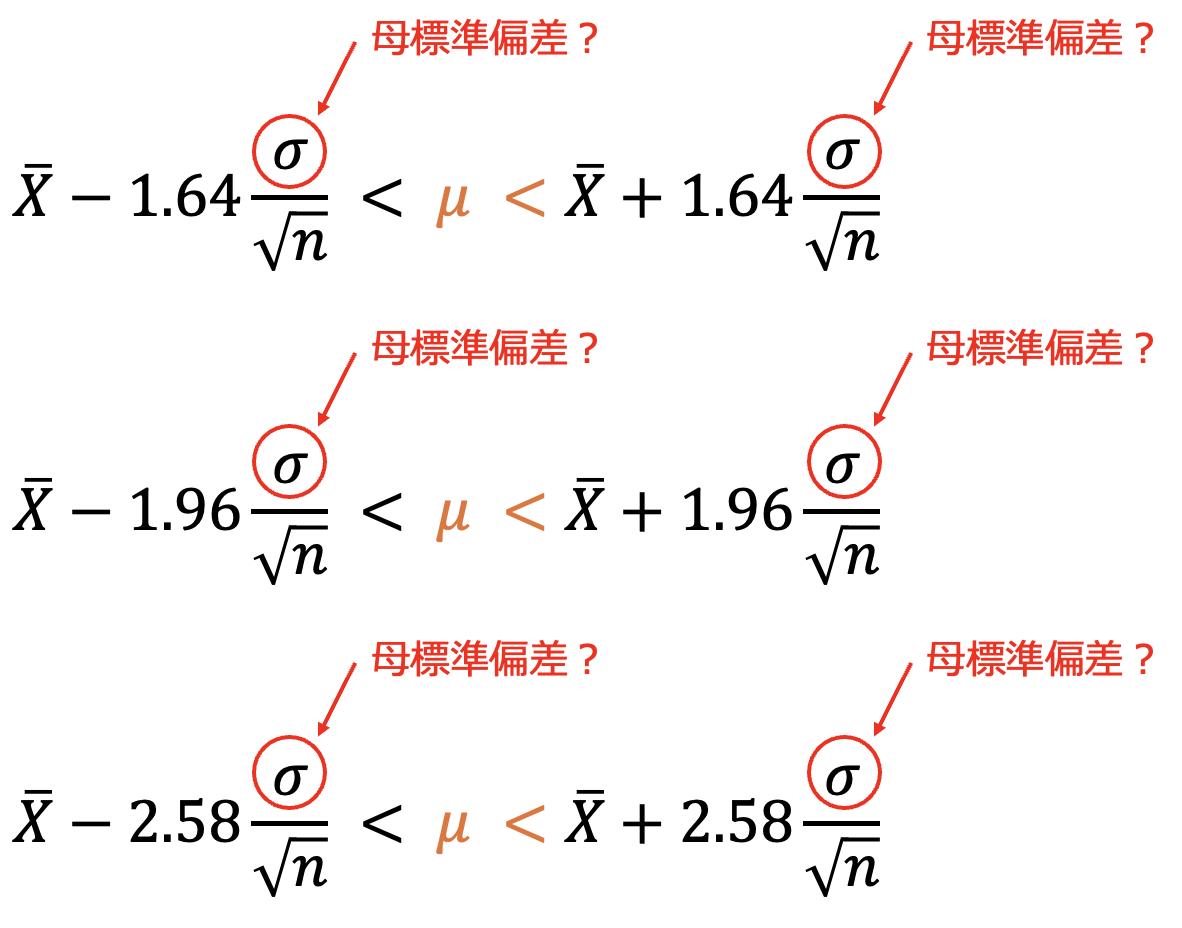
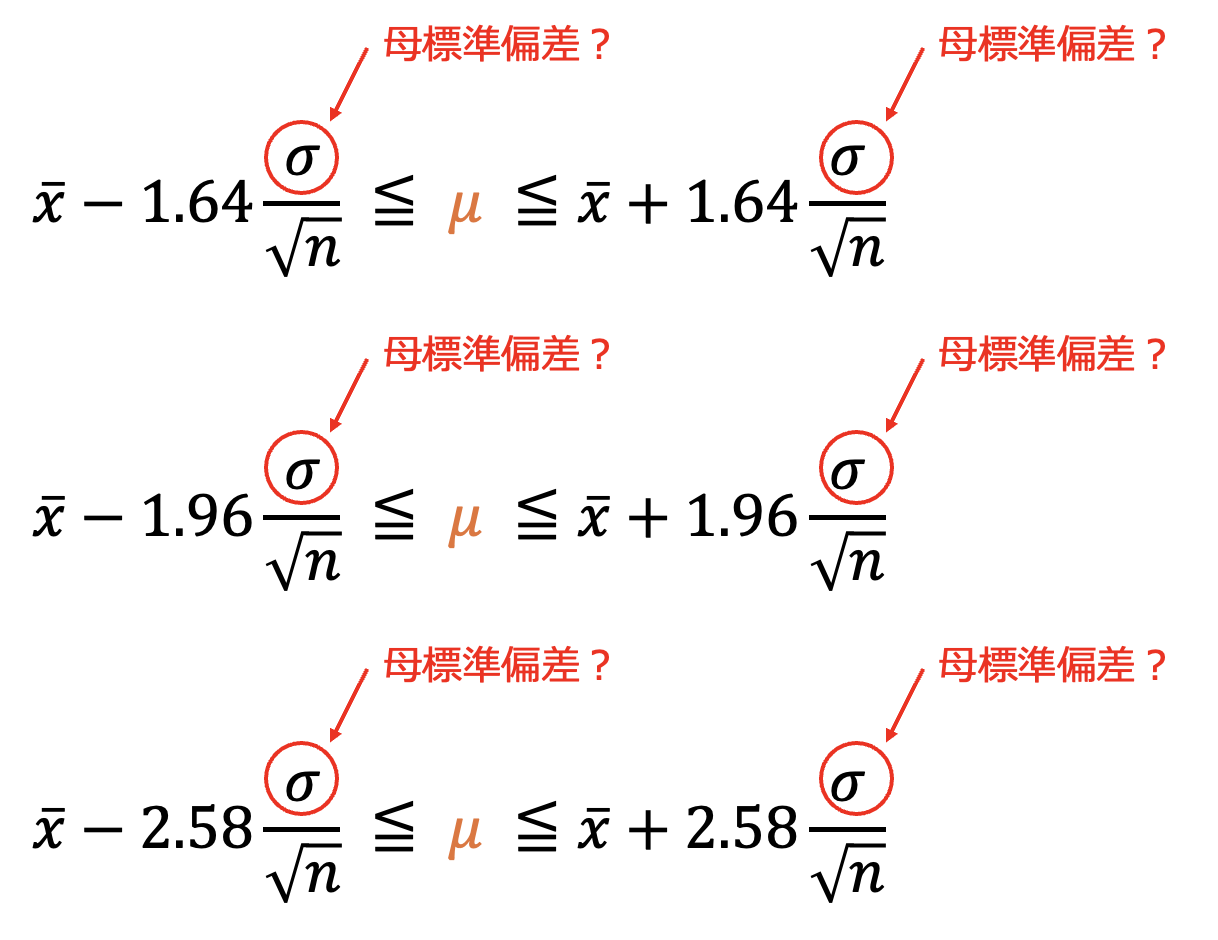
Built site for gh-pages

diff --git a/lecB04.html b/lecB04.html
@@ -383,8 +383,9 @@ window.Quarto = {
   <li><a href="#様々な信頼区間" id="toc-様々な信頼区間" class="nav-link" data-scroll-target="#様々な信頼区間"><span class="header-section-number">17.5</span> 様々な信頼区間</a></li>
   <li><a href="#疑問問題点" id="toc-疑問問題点" class="nav-link" data-scroll-target="#疑問問題点"><span class="header-section-number">17.6</span> 疑問・問題点</a></li>
   <li><a href="#母分散が未知の場合" id="toc-母分散が未知の場合" class="nav-link" data-scroll-target="#母分散が未知の場合"><span class="header-section-number">17.7</span> 母分散が未知の場合</a></li>
-  <li><a href="#エクセルの関数" id="toc-エクセルの関数" class="nav-link" data-scroll-target="#エクセルの関数"><span class="header-section-number">17.8</span> エクセルの関数</a></li>
-  <li><a href="#データ分析ツール" id="toc-データ分析ツール" class="nav-link" data-scroll-target="#データ分析ツール"><span class="header-section-number">17.9</span> データ分析ツール</a></li>
+  <li><a href="#計算例" id="toc-計算例" class="nav-link" data-scroll-target="#計算例"><span class="header-section-number">17.8</span> 計算例</a></li>
+  <li><a href="#エクセルの関数" id="toc-エクセルの関数" class="nav-link" data-scroll-target="#エクセルの関数"><span class="header-section-number">17.9</span> エクセルの関数</a></li>
+  <li><a href="#データ分析ツール" id="toc-データ分析ツール" class="nav-link" data-scroll-target="#データ分析ツール"><span class="header-section-number">17.10</span> データ分析ツール</a></li>
   </ul>
 </nav>
     </div>
@@ -459,18 +460,30 @@ window.Quarto = {
 <section id="信頼区間" class="level2" data-number="17.3">
 <h2 data-number="17.3" class="anchored" data-anchor-id="信頼区間"><span class="header-section-number">17.3</span> 信頼区間</h2>
 <p>「真の値がどれくらいの範囲に含まれるか」を確率的に示すのが<strong>信頼区間</strong>です。</p>
-<p><strong>95%信頼区間</strong></p>
-<p>母平均 <span class="math inline">\(\mu\)</span> を標本平均から推定する際、95%の確率で母平均 <span class="math inline">\(\mu\)</span> を含むような範囲のことをいいます。</p>
+<div id="fig-B04-confidence" class="quarto-float quarto-figure quarto-figure-center anchored" width="100%">
+<figure class="quarto-float quarto-float-fig figure">
+<div aria-describedby="fig-B04-confidence-caption-0ceaefa1-69ba-4598-a22c-09a6ac19f8ca">
+<img src="images/B04/B04-confidence.png" id="fig-B04-confidence" class="img-fluid figure-img" style="width:100.0%">
+</div>
+<figcaption class="quarto-float-caption-bottom quarto-float-caption quarto-float-fig quarto-uncaptioned" id="fig-B04-confidence-caption-0ceaefa1-69ba-4598-a22c-09a6ac19f8ca">
+図&nbsp;17.3
+</figcaption>
+</figure>
+</div>
 <div style="margin-top: 2.0em;">
 
 </div>
-<div id="fig-B04-3" class="quarto-float quarto-figure quarto-figure-center anchored" width="60%">
+<p><strong>95%信頼区間</strong></p>
+<p>母平均 <span class="math inline">\(\mu\)</span> を標本平均から推定する際、95%の確率で母平均 <span class="math inline">\(\mu\)</span> を含むような範囲のことをいいます。</p>
+<p>理論的には、標本を100回取得し、95%信頼区間を100回つくると95本が母平均 <span class="math inline">\(\mu\)</span> を含み、5本が外れます。</p>
+<p>以下の図は説明のため、外れる区間がちょうど理論どおり5本になるように作っています。実際に100回行うと、外れる本数は3本や7本など毎回少し変わります。</p>
+<div id="fig-B04-3" class="quarto-float quarto-figure quarto-figure-center anchored" width="70%">
 <figure class="quarto-float quarto-float-fig figure">
 <div aria-describedby="fig-B04-3-caption-0ceaefa1-69ba-4598-a22c-09a6ac19f8ca">
-<img src="images/B04/B04-3.png" id="fig-B04-3" class="img-fluid figure-img" style="width:60.0%">
+<img src="images/B04/B04-3.png" id="fig-B04-3" class="img-fluid figure-img" style="width:70.0%">
 </div>
 <figcaption class="quarto-float-caption-bottom quarto-float-caption quarto-float-fig quarto-uncaptioned" id="fig-B04-3-caption-0ceaefa1-69ba-4598-a22c-09a6ac19f8ca">
-図&nbsp;17.3
+図&nbsp;17.4
 </figcaption>
 </figure>
 </div>
@@ -506,8 +519,21 @@ P\left\{{\color{#E36C09}{-1.96}} \leqq \frac{\bar{X} - {\color{#E36C09}{\mu}}}{\
 P\left\{\bar{X} - 1.96\frac{\sigma}{\sqrt{n}} \leqq {\color{#E36C09}{\mu}} \leqq \bar{X} + 1.96\frac{\sigma}{\sqrt{n}}\right\} = 0.95
 \]</span></p>
 <ul>
-<li>つまり、<span class="math inline">\(\left[\bar{X} - 1.96\dfrac{\sigma}{\sqrt{n}},\ \ \bar{X} + 1.96\dfrac{\sigma}{\sqrt{n}}\right]\)</span> は、95%の信頼（確率）で、母平均 <span class="orange"><span class="math inline">\(\mu\)</span></span> を含みます。</li>
+<li>実際の計算では、手元の標本から求めた標本平均（観測値）<span class="math inline">\(\bar{x}\)</span> を代入します。つまり、<span class="math inline">\(\left[\bar{x} - 1.96\dfrac{\sigma}{\sqrt{n}},\ \ \bar{x} + 1.96\dfrac{\sigma}{\sqrt{n}}\right]\)</span> が、母平均 <span class="orange"><span class="math inline">\(\mu\)</span></span> の95%信頼区間です。</li>
 </ul>
+<div class="my-note callout callout-style-default callout-note callout-titled">
+<div class="callout-header d-flex align-content-center">
+<div class="callout-icon-container">
+<i class="callout-icon"></i>
+</div>
+<div class="callout-title-container flex-fill">
+<span class="screen-reader-only">Note</span>前回（世論調査の誤差）とのつながり
+</div>
+</div>
+<div class="callout-body-container callout-body">
+<p>前回の課題で求めた「支持率 <span class="math inline">\(\pm 1.96 \times\)</span> 標準誤差 <span class="math inline">\(\left(\dfrac{\sigma}{\sqrt{n}}\right)\)</span>」は、まさにこの95%信頼区間です。今回は、それを母平均の推定として一般的な形で整理します。</p>
+</div>
+</div>
 <div class="my-note callout callout-style-default callout-note callout-titled">
 <div class="callout-header d-flex align-content-center">
 <div class="callout-icon-container">
@@ -531,7 +557,7 @@ P\left\{\bar{X} - 1.96\frac{\sigma}{\sqrt{n}} \leqq {\color{#E36C09}{\mu}} \leqq
 <img src="images/B04/B04-4.png" id="fig-B04-4" class="img-fluid figure-img" style="width:60.0%">
 </div>
 <figcaption class="quarto-float-caption-bottom quarto-float-caption quarto-float-fig quarto-uncaptioned" id="fig-B04-4-caption-0ceaefa1-69ba-4598-a22c-09a6ac19f8ca">
-図&nbsp;17.4
+図&nbsp;17.5
 </figcaption>
 </figure>
 </div>
@@ -549,7 +575,7 @@ P\left\{\bar{X} - 1.96\frac{\sigma}{\sqrt{n}} \leqq {\color{#E36C09}{\mu}} \leqq
 <img src="images/B04/B04-5.png" id="fig-B04-5" class="img-fluid figure-img" style="width:60.0%">
 </div>
 <figcaption class="quarto-float-caption-bottom quarto-float-caption quarto-float-fig quarto-uncaptioned" id="fig-B04-5-caption-0ceaefa1-69ba-4598-a22c-09a6ac19f8ca">
-図&nbsp;17.5
+図&nbsp;17.6
 </figcaption>
 </figure>
 </div>
@@ -574,20 +600,21 @@ P\left\{-1.96 \leqq \frac{\bar{X} - \mu}{\frac{\sigma}{\sqrt{n}}} \leqq 1.96\rig
 <li>90% 信頼区間</li>
 </ul>
 <p><span class="math display">\[
-\bar{X} - 1.64\frac{\sigma}{\sqrt{n}} &lt; {\color{#E36C09}{\mu}} &lt; \bar{X} + 1.64\frac{\sigma}{\sqrt{n}}
+\bar{x} - 1.64\frac{\sigma}{\sqrt{n}} \leqq {\color{#E36C09}{\mu}} \leqq \bar{x} + 1.64\frac{\sigma}{\sqrt{n}}
 \]</span></p>
 <ul>
 <li>95% 信頼区間</li>
 </ul>
 <p><span class="math display">\[
-\bar{X} - 1.96\frac{\sigma}{\sqrt{n}} &lt; {\color{#E36C09}{\mu}} &lt; \bar{X} + 1.96\frac{\sigma}{\sqrt{n}}
+\bar{x} - 1.96\frac{\sigma}{\sqrt{n}} \leqq {\color{#E36C09}{\mu}} \leqq \bar{x} + 1.96\frac{\sigma}{\sqrt{n}}
 \]</span></p>
 <ul>
 <li>99% 信頼区間</li>
 </ul>
 <p><span class="math display">\[
-\bar{X} - 2.58\frac{\sigma}{\sqrt{n}} &lt; {\color{#E36C09}{\mu}} &lt; \bar{X} + 2.58\frac{\sigma}{\sqrt{n}}
+\bar{x} - 2.58\frac{\sigma}{\sqrt{n}} \leqq {\color{#E36C09}{\mu}} \leqq \bar{x} + 2.58\frac{\sigma}{\sqrt{n}}
 \]</span></p>
+<p>1.64 と 2.58 は、それぞれ 1.645（<code>=NORM.S.INV(0.95)</code>）と 2.576（<code>=NORM.S.INV(0.995)</code>）を丸めた値です。</p>
 </section>
 <section id="疑問問題点" class="level2" data-number="17.6">
 <h2 data-number="17.6" class="anchored" data-anchor-id="疑問問題点"><span class="header-section-number">17.6</span> 疑問・問題点</h2>
@@ -599,13 +626,13 @@ P\left\{-1.96 \leqq \frac{\bar{X} - \mu}{\frac{\sigma}{\sqrt{n}}} \leqq 1.96\rig
 <div style="margin-top: 1.5em;">
 
 </div>
-<div id="fig-B04-6" class="quarto-float quarto-figure quarto-figure-center anchored" width="60%">
+<div id="fig-B04-6" class="quarto-float quarto-figure quarto-figure-center anchored" width="70%">
 <figure class="quarto-float quarto-float-fig figure">
 <div aria-describedby="fig-B04-6-caption-0ceaefa1-69ba-4598-a22c-09a6ac19f8ca">
-<img src="images/B04/B04-6.png" id="fig-B04-6" class="img-fluid figure-img" style="width:60.0%">
+<img src="images/B04/B04-6.png" id="fig-B04-6" class="img-fluid figure-img" style="width:70.0%">
 </div>
 <figcaption class="quarto-float-caption-bottom quarto-float-caption quarto-float-fig quarto-uncaptioned" id="fig-B04-6-caption-0ceaefa1-69ba-4598-a22c-09a6ac19f8ca">
-図&nbsp;17.6
+図&nbsp;17.7
 </figcaption>
 </figure>
 </div>
@@ -618,7 +645,7 @@ P\left\{-1.96 \leqq \frac{\bar{X} - \mu}{\frac{\sigma}{\sqrt{n}}} \leqq 1.96\rig
 <img src="images/B04/B04-7.png" id="fig-B04-7" class="img-fluid figure-img" style="width:100.0%">
 </div>
 <figcaption class="quarto-float-caption-bottom quarto-float-caption quarto-float-fig quarto-uncaptioned" id="fig-B04-7-caption-0ceaefa1-69ba-4598-a22c-09a6ac19f8ca">
-図&nbsp;17.7
+図&nbsp;17.8
 </figcaption>
 </figure>
 </div>
@@ -626,15 +653,15 @@ P\left\{-1.96 \leqq \frac{\bar{X} - \mu}{\frac{\sigma}{\sqrt{n}}} \leqq 1.96\rig
 </section>
 <section id="母分散が未知の場合" class="level2" data-number="17.7">
 <h2 data-number="17.7" class="anchored" data-anchor-id="母分散が未知の場合"><span class="header-section-number">17.7</span> 母分散が未知の場合</h2>
-<p>母分散 <span class="math inline">\(\sigma^2\)</span> が未知なので、代わりに標本（不偏）分散 <span class="orange"><span class="math inline">\(s^2\)</span></span> を使いますが、<span class="math inline">\(\sigma\)</span> の代わりに <span class="math inline">\(s\)</span> を使って標準化した値は、正規分布 <span class="math inline">\(N(0, 1)\)</span> には従いません。</p>
-<p>代わりに、標本平均 <span class="math inline">\(\bar{X}\)</span> を母平均と標本（不偏）分散を使い標準化した値 <span class="math inline">\(\left(\dfrac{\bar{X} - \mu}{\frac{s}{\sqrt{n}}}\right)\)</span> は、<span class="orange">自由度 <span class="math inline">\(n-1\)</span> の <span class="math inline">\(t\)</span> 分布</span>（<span class="math inline">\(t(n-1)\)</span> と書く）と呼ばれる分布に従います。</p>
+<p>母分散 <span class="math inline">\(\sigma^2\)</span> が未知なので、代わりに不偏分散 <span class="orange"><span class="math inline">\(s^2\)</span></span> を使いますが、<span class="math inline">\(\sigma\)</span> の代わりに <span class="math inline">\(s\)</span> を使って標準化した値は、正規分布 <span class="math inline">\(N(0, 1)\)</span> には従いません。</p>
+<p>代わりに、標本平均 <span class="math inline">\(\bar{X}\)</span> を、不偏分散から求めた標準偏差 <span class="math inline">\(s\)</span>（<span class="math inline">\(s = \sqrt{s^2}\)</span>）を使って標準化した値 <span class="math inline">\(\left(\dfrac{\bar{X} - \mu}{\frac{s}{\sqrt{n}}}\right)\)</span> は、<span class="orange">自由度 <span class="math inline">\(n-1\)</span> の <span class="math inline">\(t\)</span> 分布</span>（<span class="math inline">\(t(n-1)\)</span> と書く）と呼ばれる分布に従います。</p>
 <p>つまり、標本サイズ <span class="math inline">\(n\)</span>（自由度 <span class="math inline">\(n-1\)</span>）により分布の形が決まります。</p>
 <p><span class="math inline">\(t\)</span> 分布は正規分布よりも山が低く、裾が広い（両端の値が出やすい）分布で、<span class="math inline">\(n\)</span> が大きくなると、正規分布に近づきます。</p>
 <p>自由度を変えて、<span class="math inline">\(t\)</span> 分布（オレンジ）と正規分布 <span class="math inline">\(N(0, 1)\)</span>（黒の点線）を比べてみましょう。</p>
 <div class="cell">
 <details class="code-fold hidden">
 <summary>コードを表示</summary>
-<div class="code-copy-outer-scaffold"><div class="sourceCode cell-code hidden" id="cb1" data-startfrom="162" data-source-offset="0"><pre class="sourceCode numberSource js number-lines code-with-copy"><code class="sourceCode javascript" style="counter-reset: source-line 161;"><span id="cb1-162"><a href="#cb1-162"></a>viewof df <span class="op">=</span> Inputs<span class="op">.</span><span class="fu">select</span>([<span class="dv">1</span><span class="op">,</span> <span class="dv">2</span><span class="op">,</span> <span class="dv">3</span><span class="op">,</span> <span class="dv">5</span><span class="op">,</span> <span class="dv">10</span><span class="op">,</span> <span class="dv">30</span><span class="op">,</span> <span class="dv">100</span>]<span class="op">,</span> {<span class="dt">value</span><span class="op">:</span> <span class="dv">1</span><span class="op">,</span> <span class="dt">label</span><span class="op">:</span> <span class="st">"自由度 n−1"</span>})</span></code></pre></div><button title="Copy to Clipboard" class="code-copy-button"><i class="bi"></i></button></div>
+<div class="code-copy-outer-scaffold"><div class="sourceCode cell-code hidden" id="cb1" data-startfrom="177" data-source-offset="0"><pre class="sourceCode numberSource js number-lines code-with-copy"><code class="sourceCode javascript" style="counter-reset: source-line 176;"><span id="cb1-177"><a href="#cb1-177"></a>viewof df <span class="op">=</span> Inputs<span class="op">.</span><span class="fu">select</span>([<span class="dv">1</span><span class="op">,</span> <span class="dv">2</span><span class="op">,</span> <span class="dv">3</span><span class="op">,</span> <span class="dv">5</span><span class="op">,</span> <span class="dv">10</span><span class="op">,</span> <span class="dv">30</span><span class="op">,</span> <span class="dv">100</span>]<span class="op">,</span> {<span class="dt">value</span><span class="op">:</span> <span class="dv">1</span><span class="op">,</span> <span class="dt">label</span><span class="op">:</span> <span class="st">"自由度 n−1"</span>})</span></code></pre></div><button title="Copy to Clipboard" class="code-copy-button"><i class="bi"></i></button></div>
 </details>
 <div class="cell-output cell-output-display">
 <div id="ojs-cell-1" data-nodetype="declaration">
@@ -645,40 +672,40 @@ P\left\{-1.96 \leqq \frac{\bar{X} - \mu}{\frac{\sigma}{\sqrt{n}}} \leqq 1.96\rig
 <div class="cell">
 <details class="code-fold hidden">
 <summary>コードを表示</summary>
-<div class="code-copy-outer-scaffold"><div class="sourceCode cell-code hidden" id="cb2" data-startfrom="167" data-source-offset="0"><pre class="sourceCode numberSource js number-lines code-with-copy"><code class="sourceCode javascript" style="counter-reset: source-line 166;"><span id="cb2-167"><a href="#cb2-167"></a>{</span>
-<span id="cb2-168"><a href="#cb2-168"></a>  <span class="co">// 対数ガンマ関数（Lanczos近似）</span></span>
-<span id="cb2-169"><a href="#cb2-169"></a>  <span class="kw">function</span> <span class="fu">lgamma</span>(z) {</span>
-<span id="cb2-170"><a href="#cb2-170"></a>    <span class="kw">const</span> g <span class="op">=</span> <span class="dv">7</span><span class="op">;</span></span>
-<span id="cb2-171"><a href="#cb2-171"></a>    <span class="kw">const</span> c <span class="op">=</span> [<span class="fl">0.99999999999980993</span><span class="op">,</span> <span class="fl">676.5203681218851</span><span class="op">,</span> <span class="op">-</span><span class="fl">1259.1392167224028</span><span class="op">,</span></span>
-<span id="cb2-172"><a href="#cb2-172"></a>      <span class="fl">771.32342877765313</span><span class="op">,</span> <span class="op">-</span><span class="fl">176.61502916214059</span><span class="op">,</span> <span class="fl">12.507343278686905</span><span class="op">,</span></span>
-<span id="cb2-173"><a href="#cb2-173"></a>      <span class="op">-</span><span class="fl">0.13857109526572012</span><span class="op">,</span> <span class="fl">9.9843695780195716e-6</span><span class="op">,</span> <span class="fl">1.5056327351493116e-7</span>]<span class="op">;</span></span>
-<span id="cb2-174"><a href="#cb2-174"></a>    <span class="cf">if</span> (z <span class="op">&lt;</span> <span class="fl">0.5</span>) <span class="cf">return</span> <span class="bu">Math</span><span class="op">.</span><span class="fu">log</span>(<span class="bu">Math</span><span class="op">.</span><span class="cn">PI</span> <span class="op">/</span> <span class="bu">Math</span><span class="op">.</span><span class="fu">sin</span>(<span class="bu">Math</span><span class="op">.</span><span class="cn">PI</span> <span class="op">*</span> z)) <span class="op">-</span> <span class="fu">lgamma</span>(<span class="dv">1</span> <span class="op">-</span> z)<span class="op">;</span></span>
-<span id="cb2-175"><a href="#cb2-175"></a>    z <span class="op">-=</span> <span class="dv">1</span><span class="op">;</span></span>
-<span id="cb2-176"><a href="#cb2-176"></a>    <span class="kw">let</span> x <span class="op">=</span> c[<span class="dv">0</span>]<span class="op">;</span></span>
-<span id="cb2-177"><a href="#cb2-177"></a>    <span class="cf">for</span> (<span class="kw">let</span> i <span class="op">=</span> <span class="dv">1</span><span class="op">;</span> i <span class="op">&lt;</span> g <span class="op">+</span> <span class="dv">2</span><span class="op">;</span> i<span class="op">++</span>) x <span class="op">+=</span> c[i] <span class="op">/</span> (z <span class="op">+</span> i)<span class="op">;</span></span>
-<span id="cb2-178"><a href="#cb2-178"></a>    <span class="kw">const</span> t <span class="op">=</span> z <span class="op">+</span> g <span class="op">+</span> <span class="fl">0.5</span><span class="op">;</span></span>
-<span id="cb2-179"><a href="#cb2-179"></a>    <span class="cf">return</span> <span class="fl">0.5</span> <span class="op">*</span> <span class="bu">Math</span><span class="op">.</span><span class="fu">log</span>(<span class="dv">2</span> <span class="op">*</span> <span class="bu">Math</span><span class="op">.</span><span class="cn">PI</span>) <span class="op">+</span> (z <span class="op">+</span> <span class="fl">0.5</span>) <span class="op">*</span> <span class="bu">Math</span><span class="op">.</span><span class="fu">log</span>(t) <span class="op">-</span> t <span class="op">+</span> <span class="bu">Math</span><span class="op">.</span><span class="fu">log</span>(x)<span class="op">;</span></span>
-<span id="cb2-180"><a href="#cb2-180"></a>  }</span>
-<span id="cb2-181"><a href="#cb2-181"></a>  <span class="co">// t分布と正規分布の確率密度</span></span>
-<span id="cb2-182"><a href="#cb2-182"></a>  <span class="kw">const</span> tpdf <span class="op">=</span> (x<span class="op">,</span> v) <span class="kw">=&gt;</span></span>
-<span id="cb2-183"><a href="#cb2-183"></a>    <span class="bu">Math</span><span class="op">.</span><span class="fu">exp</span>(<span class="fu">lgamma</span>((v <span class="op">+</span> <span class="dv">1</span>) <span class="op">/</span> <span class="dv">2</span>) <span class="op">-</span> <span class="fu">lgamma</span>(v <span class="op">/</span> <span class="dv">2</span>)) <span class="op">/</span> <span class="bu">Math</span><span class="op">.</span><span class="fu">sqrt</span>(v <span class="op">*</span> <span class="bu">Math</span><span class="op">.</span><span class="cn">PI</span>) <span class="op">*</span></span>
-<span id="cb2-184"><a href="#cb2-184"></a>    <span class="bu">Math</span><span class="op">.</span><span class="fu">pow</span>(<span class="dv">1</span> <span class="op">+</span> x <span class="op">*</span> x <span class="op">/</span> v<span class="op">,</span> <span class="op">-</span>(v <span class="op">+</span> <span class="dv">1</span>) <span class="op">/</span> <span class="dv">2</span>)<span class="op">;</span></span>
-<span id="cb2-185"><a href="#cb2-185"></a>  <span class="kw">const</span> npdf <span class="op">=</span> x <span class="kw">=&gt;</span> <span class="bu">Math</span><span class="op">.</span><span class="fu">exp</span>(<span class="op">-</span>x <span class="op">*</span> x <span class="op">/</span> <span class="dv">2</span>) <span class="op">/</span> <span class="bu">Math</span><span class="op">.</span><span class="fu">sqrt</span>(<span class="dv">2</span> <span class="op">*</span> <span class="bu">Math</span><span class="op">.</span><span class="cn">PI</span>)<span class="op">;</span></span>
-<span id="cb2-186"><a href="#cb2-186"></a></span>
-<span id="cb2-187"><a href="#cb2-187"></a>  <span class="kw">const</span> xs <span class="op">=</span> d3<span class="op">.</span><span class="fu">range</span>(<span class="op">-</span><span class="dv">5</span><span class="op">,</span> <span class="fl">5.001</span><span class="op">,</span> <span class="fl">0.02</span>)<span class="op">;</span></span>
-<span id="cb2-188"><a href="#cb2-188"></a>  <span class="kw">const</span> tData <span class="op">=</span> xs<span class="op">.</span><span class="fu">map</span>(x <span class="kw">=&gt;</span> ({<span class="dt">x</span><span class="op">:</span> x<span class="op">,</span> <span class="dt">y</span><span class="op">:</span> <span class="fu">tpdf</span>(x<span class="op">,</span> df)}))<span class="op">;</span></span>
-<span id="cb2-189"><a href="#cb2-189"></a>  <span class="kw">const</span> nData <span class="op">=</span> xs<span class="op">.</span><span class="fu">map</span>(x <span class="kw">=&gt;</span> ({<span class="dt">x</span><span class="op">:</span> x<span class="op">,</span> <span class="dt">y</span><span class="op">:</span> <span class="fu">npdf</span>(x)}))<span class="op">;</span></span>
-<span id="cb2-190"><a href="#cb2-190"></a></span>
-<span id="cb2-191"><a href="#cb2-191"></a>  <span class="cf">return</span> Plot<span class="op">.</span><span class="fu">plot</span>({</span>
-<span id="cb2-192"><a href="#cb2-192"></a>    <span class="dt">x</span><span class="op">:</span> {<span class="dt">domain</span><span class="op">:</span> [<span class="op">-</span><span class="dv">5</span><span class="op">,</span> <span class="dv">5</span>]<span class="op">,</span> <span class="dt">label</span><span class="op">:</span> <span class="st">"値"</span>}<span class="op">,</span></span>
-<span id="cb2-193"><a href="#cb2-193"></a>    <span class="dt">y</span><span class="op">:</span> {<span class="dt">domain</span><span class="op">:</span> [<span class="dv">0</span><span class="op">,</span> <span class="fl">0.42</span>]<span class="op">,</span> <span class="dt">label</span><span class="op">:</span> <span class="st">"確率密度"</span><span class="op">,</span> <span class="dt">grid</span><span class="op">:</span> <span class="kw">true</span>}<span class="op">,</span></span>
-<span id="cb2-194"><a href="#cb2-194"></a>    <span class="dt">marks</span><span class="op">:</span> [</span>
-<span id="cb2-195"><a href="#cb2-195"></a>      Plot<span class="op">.</span><span class="fu">line</span>(nData<span class="op">,</span> {<span class="dt">x</span><span class="op">:</span> <span class="st">"x"</span><span class="op">,</span> <span class="dt">y</span><span class="op">:</span> <span class="st">"y"</span><span class="op">,</span> <span class="dt">stroke</span><span class="op">:</span> <span class="st">"black"</span><span class="op">,</span> <span class="dt">strokeWidth</span><span class="op">:</span> <span class="fl">1.5</span><span class="op">,</span> <span class="dt">strokeDasharray</span><span class="op">:</span> <span class="st">"4,3"</span>})<span class="op">,</span></span>
-<span id="cb2-196"><a href="#cb2-196"></a>      Plot<span class="op">.</span><span class="fu">line</span>(tData<span class="op">,</span> {<span class="dt">x</span><span class="op">:</span> <span class="st">"x"</span><span class="op">,</span> <span class="dt">y</span><span class="op">:</span> <span class="st">"y"</span><span class="op">,</span> <span class="dt">stroke</span><span class="op">:</span> <span class="st">"#E36C09"</span><span class="op">,</span> <span class="dt">strokeWidth</span><span class="op">:</span> <span class="fl">2.5</span>})<span class="op">,</span></span>
-<span id="cb2-197"><a href="#cb2-197"></a>      Plot<span class="op">.</span><span class="fu">ruleY</span>([<span class="dv">0</span>])</span>
-<span id="cb2-198"><a href="#cb2-198"></a>    ]</span>
-<span id="cb2-199"><a href="#cb2-199"></a>  })<span class="op">;</span></span>
-<span id="cb2-200"><a href="#cb2-200"></a>}</span></code></pre></div><button title="Copy to Clipboard" class="code-copy-button"><i class="bi"></i></button></div>
+<div class="code-copy-outer-scaffold"><div class="sourceCode cell-code hidden" id="cb2" data-startfrom="182" data-source-offset="0"><pre class="sourceCode numberSource js number-lines code-with-copy"><code class="sourceCode javascript" style="counter-reset: source-line 181;"><span id="cb2-182"><a href="#cb2-182"></a>{</span>
+<span id="cb2-183"><a href="#cb2-183"></a>  <span class="co">// 対数ガンマ関数（Lanczos近似）</span></span>
+<span id="cb2-184"><a href="#cb2-184"></a>  <span class="kw">function</span> <span class="fu">lgamma</span>(z) {</span>
+<span id="cb2-185"><a href="#cb2-185"></a>    <span class="kw">const</span> g <span class="op">=</span> <span class="dv">7</span><span class="op">;</span></span>
+<span id="cb2-186"><a href="#cb2-186"></a>    <span class="kw">const</span> c <span class="op">=</span> [<span class="fl">0.99999999999980993</span><span class="op">,</span> <span class="fl">676.5203681218851</span><span class="op">,</span> <span class="op">-</span><span class="fl">1259.1392167224028</span><span class="op">,</span></span>
+<span id="cb2-187"><a href="#cb2-187"></a>      <span class="fl">771.32342877765313</span><span class="op">,</span> <span class="op">-</span><span class="fl">176.61502916214059</span><span class="op">,</span> <span class="fl">12.507343278686905</span><span class="op">,</span></span>
+<span id="cb2-188"><a href="#cb2-188"></a>      <span class="op">-</span><span class="fl">0.13857109526572012</span><span class="op">,</span> <span class="fl">9.9843695780195716e-6</span><span class="op">,</span> <span class="fl">1.5056327351493116e-7</span>]<span class="op">;</span></span>
+<span id="cb2-189"><a href="#cb2-189"></a>    <span class="cf">if</span> (z <span class="op">&lt;</span> <span class="fl">0.5</span>) <span class="cf">return</span> <span class="bu">Math</span><span class="op">.</span><span class="fu">log</span>(<span class="bu">Math</span><span class="op">.</span><span class="cn">PI</span> <span class="op">/</span> <span class="bu">Math</span><span class="op">.</span><span class="fu">sin</span>(<span class="bu">Math</span><span class="op">.</span><span class="cn">PI</span> <span class="op">*</span> z)) <span class="op">-</span> <span class="fu">lgamma</span>(<span class="dv">1</span> <span class="op">-</span> z)<span class="op">;</span></span>
+<span id="cb2-190"><a href="#cb2-190"></a>    z <span class="op">-=</span> <span class="dv">1</span><span class="op">;</span></span>
+<span id="cb2-191"><a href="#cb2-191"></a>    <span class="kw">let</span> x <span class="op">=</span> c[<span class="dv">0</span>]<span class="op">;</span></span>
+<span id="cb2-192"><a href="#cb2-192"></a>    <span class="cf">for</span> (<span class="kw">let</span> i <span class="op">=</span> <span class="dv">1</span><span class="op">;</span> i <span class="op">&lt;</span> g <span class="op">+</span> <span class="dv">2</span><span class="op">;</span> i<span class="op">++</span>) x <span class="op">+=</span> c[i] <span class="op">/</span> (z <span class="op">+</span> i)<span class="op">;</span></span>
+<span id="cb2-193"><a href="#cb2-193"></a>    <span class="kw">const</span> t <span class="op">=</span> z <span class="op">+</span> g <span class="op">+</span> <span class="fl">0.5</span><span class="op">;</span></span>
+<span id="cb2-194"><a href="#cb2-194"></a>    <span class="cf">return</span> <span class="fl">0.5</span> <span class="op">*</span> <span class="bu">Math</span><span class="op">.</span><span class="fu">log</span>(<span class="dv">2</span> <span class="op">*</span> <span class="bu">Math</span><span class="op">.</span><span class="cn">PI</span>) <span class="op">+</span> (z <span class="op">+</span> <span class="fl">0.5</span>) <span class="op">*</span> <span class="bu">Math</span><span class="op">.</span><span class="fu">log</span>(t) <span class="op">-</span> t <span class="op">+</span> <span class="bu">Math</span><span class="op">.</span><span class="fu">log</span>(x)<span class="op">;</span></span>
+<span id="cb2-195"><a href="#cb2-195"></a>  }</span>
+<span id="cb2-196"><a href="#cb2-196"></a>  <span class="co">// t分布と正規分布の確率密度</span></span>
+<span id="cb2-197"><a href="#cb2-197"></a>  <span class="kw">const</span> tpdf <span class="op">=</span> (x<span class="op">,</span> v) <span class="kw">=&gt;</span></span>
+<span id="cb2-198"><a href="#cb2-198"></a>    <span class="bu">Math</span><span class="op">.</span><span class="fu">exp</span>(<span class="fu">lgamma</span>((v <span class="op">+</span> <span class="dv">1</span>) <span class="op">/</span> <span class="dv">2</span>) <span class="op">-</span> <span class="fu">lgamma</span>(v <span class="op">/</span> <span class="dv">2</span>)) <span class="op">/</span> <span class="bu">Math</span><span class="op">.</span><span class="fu">sqrt</span>(v <span class="op">*</span> <span class="bu">Math</span><span class="op">.</span><span class="cn">PI</span>) <span class="op">*</span></span>
+<span id="cb2-199"><a href="#cb2-199"></a>    <span class="bu">Math</span><span class="op">.</span><span class="fu">pow</span>(<span class="dv">1</span> <span class="op">+</span> x <span class="op">*</span> x <span class="op">/</span> v<span class="op">,</span> <span class="op">-</span>(v <span class="op">+</span> <span class="dv">1</span>) <span class="op">/</span> <span class="dv">2</span>)<span class="op">;</span></span>
+<span id="cb2-200"><a href="#cb2-200"></a>  <span class="kw">const</span> npdf <span class="op">=</span> x <span class="kw">=&gt;</span> <span class="bu">Math</span><span class="op">.</span><span class="fu">exp</span>(<span class="op">-</span>x <span class="op">*</span> x <span class="op">/</span> <span class="dv">2</span>) <span class="op">/</span> <span class="bu">Math</span><span class="op">.</span><span class="fu">sqrt</span>(<span class="dv">2</span> <span class="op">*</span> <span class="bu">Math</span><span class="op">.</span><span class="cn">PI</span>)<span class="op">;</span></span>
+<span id="cb2-201"><a href="#cb2-201"></a></span>
+<span id="cb2-202"><a href="#cb2-202"></a>  <span class="kw">const</span> xs <span class="op">=</span> d3<span class="op">.</span><span class="fu">range</span>(<span class="op">-</span><span class="dv">5</span><span class="op">,</span> <span class="fl">5.001</span><span class="op">,</span> <span class="fl">0.02</span>)<span class="op">;</span></span>
+<span id="cb2-203"><a href="#cb2-203"></a>  <span class="kw">const</span> tData <span class="op">=</span> xs<span class="op">.</span><span class="fu">map</span>(x <span class="kw">=&gt;</span> ({<span class="dt">x</span><span class="op">:</span> x<span class="op">,</span> <span class="dt">y</span><span class="op">:</span> <span class="fu">tpdf</span>(x<span class="op">,</span> df)}))<span class="op">;</span></span>
+<span id="cb2-204"><a href="#cb2-204"></a>  <span class="kw">const</span> nData <span class="op">=</span> xs<span class="op">.</span><span class="fu">map</span>(x <span class="kw">=&gt;</span> ({<span class="dt">x</span><span class="op">:</span> x<span class="op">,</span> <span class="dt">y</span><span class="op">:</span> <span class="fu">npdf</span>(x)}))<span class="op">;</span></span>
+<span id="cb2-205"><a href="#cb2-205"></a></span>
+<span id="cb2-206"><a href="#cb2-206"></a>  <span class="cf">return</span> Plot<span class="op">.</span><span class="fu">plot</span>({</span>
+<span id="cb2-207"><a href="#cb2-207"></a>    <span class="dt">x</span><span class="op">:</span> {<span class="dt">domain</span><span class="op">:</span> [<span class="op">-</span><span class="dv">5</span><span class="op">,</span> <span class="dv">5</span>]<span class="op">,</span> <span class="dt">label</span><span class="op">:</span> <span class="st">"値"</span>}<span class="op">,</span></span>
+<span id="cb2-208"><a href="#cb2-208"></a>    <span class="dt">y</span><span class="op">:</span> {<span class="dt">domain</span><span class="op">:</span> [<span class="dv">0</span><span class="op">,</span> <span class="fl">0.42</span>]<span class="op">,</span> <span class="dt">label</span><span class="op">:</span> <span class="st">"確率密度"</span><span class="op">,</span> <span class="dt">grid</span><span class="op">:</span> <span class="kw">true</span>}<span class="op">,</span></span>
+<span id="cb2-209"><a href="#cb2-209"></a>    <span class="dt">marks</span><span class="op">:</span> [</span>
+<span id="cb2-210"><a href="#cb2-210"></a>      Plot<span class="op">.</span><span class="fu">line</span>(nData<span class="op">,</span> {<span class="dt">x</span><span class="op">:</span> <span class="st">"x"</span><span class="op">,</span> <span class="dt">y</span><span class="op">:</span> <span class="st">"y"</span><span class="op">,</span> <span class="dt">stroke</span><span class="op">:</span> <span class="st">"black"</span><span class="op">,</span> <span class="dt">strokeWidth</span><span class="op">:</span> <span class="fl">1.5</span><span class="op">,</span> <span class="dt">strokeDasharray</span><span class="op">:</span> <span class="st">"4,3"</span>})<span class="op">,</span></span>
+<span id="cb2-211"><a href="#cb2-211"></a>      Plot<span class="op">.</span><span class="fu">line</span>(tData<span class="op">,</span> {<span class="dt">x</span><span class="op">:</span> <span class="st">"x"</span><span class="op">,</span> <span class="dt">y</span><span class="op">:</span> <span class="st">"y"</span><span class="op">,</span> <span class="dt">stroke</span><span class="op">:</span> <span class="st">"#E36C09"</span><span class="op">,</span> <span class="dt">strokeWidth</span><span class="op">:</span> <span class="fl">2.5</span>})<span class="op">,</span></span>
+<span id="cb2-212"><a href="#cb2-212"></a>      Plot<span class="op">.</span><span class="fu">ruleY</span>([<span class="dv">0</span>])</span>
+<span id="cb2-213"><a href="#cb2-213"></a>    ]</span>
+<span id="cb2-214"><a href="#cb2-214"></a>  })<span class="op">;</span></span>
+<span id="cb2-215"><a href="#cb2-215"></a>}</span></code></pre></div><button title="Copy to Clipboard" class="code-copy-button"><i class="bi"></i></button></div>
 </details>
 <div class="cell-output cell-output-display">
 <div id="ojs-cell-2" data-nodetype="expression">
@@ -753,26 +780,43 @@ P\left\{-1.96 \leqq \frac{\bar{X} - \mu}{\frac{\sigma}{\sqrt{n}}} \leqq 1.96\rig
 <li>90% 信頼区間</li>
 </ul>
 <p><span class="math display">\[
-\bar{X} - t_{0.05}(n-1)\frac{s}{\sqrt{n}} &lt; \color{#E36C09}{\mu} &lt; \bar{X} + t_{0.05}(n-1)\frac{s}{\sqrt{n}}
+\bar{x} - t_{0.05}(n-1)\frac{s}{\sqrt{n}} \leqq {\color{#E36C09}{\mu}} \leqq \bar{x} + t_{0.05}(n-1)\frac{s}{\sqrt{n}}
 \]</span></p>
 <ul>
 <li>95% 信頼区間</li>
 </ul>
 <p><span class="math display">\[
-\bar{X} - t_{0.025}(n-1)\frac{s}{\sqrt{n}} &lt; \color{#E36C09}{\mu} &lt; \bar{X} + t_{0.025}(n-1)\frac{s}{\sqrt{n}}
+\bar{x} - t_{0.025}(n-1)\frac{s}{\sqrt{n}} \leqq {\color{#E36C09}{\mu}} \leqq \bar{x} + t_{0.025}(n-1)\frac{s}{\sqrt{n}}
 \]</span></p>
 <ul>
 <li>99% 信頼区間</li>
 </ul>
 <p><span class="math display">\[
-\bar{X} - t_{0.005}(n-1)\frac{s}{\sqrt{n}} &lt; \color{#E36C09}{\mu} &lt; \bar{X} + t_{0.005}(n-1)\frac{s}{\sqrt{n}}
+\bar{x} - t_{0.005}(n-1)\frac{s}{\sqrt{n}} \leqq {\color{#E36C09}{\mu}} \leqq \bar{x} + t_{0.005}(n-1)\frac{s}{\sqrt{n}}
 \]</span></p>
 <p><br></p>
-<p><span class="math inline">\(t_{\alpha}(n-1)\)</span> は <span class="math inline">\(t\)</span> 分布表から探します（またはエクセルの関数を使う方法もあります）。<br>
-<a href="https://bellcurve.jp/statistics/course/8970.html">t分布表（統計WEB）</a></p>
+<p><span class="math inline">\(t_{\alpha}(n-1)\)</span> は、自由度 <span class="math inline">\(n-1\)</span> の <span class="math inline">\(t\)</span> 分布で、右側（上側）の面積が <span class="math inline">\(\alpha\)</span> になる境目の値です。95%信頼区間では左右に2.5%ずつ残すので、<span class="math inline">\(t_{0.025}(n-1)\)</span> を使います。</p>
+<ul>
+<li><strong><span class="math inline">\(t\)</span> 分布表で探す</strong>：行が「自由度 <span class="math inline">\(n-1\)</span>」、列が「上側確率 <span class="math inline">\(\alpha\)</span>」のところを読みます。例えば <span class="math inline">\(n=10\)</span> の95%信頼区間なら、自由度9・上側確率0.025 の欄で 2.262 です。<br>
+<a href="https://bellcurve.jp/statistics/course/8970.html">t分布表（統計WEB）</a></li>
+<li><strong>エクセルで求める</strong>：<code>=T.INV.2T(0.05, 9)</code> と入力すると 2.262 になります。1つ目の引数は左右<strong>両側を合わせた</strong>確率（95%信頼区間なら 0.05、90%なら 0.10、99%なら 0.01）、2つ目の引数は自由度 <span class="math inline">\(n-1\)</span> です。</li>
+</ul>
 </section>
-<section id="エクセルの関数" class="level2" data-number="17.8">
-<h2 data-number="17.8" class="anchored" data-anchor-id="エクセルの関数"><span class="header-section-number">17.8</span> エクセルの関数</h2>
+<section id="計算例" class="level2" data-number="17.8">
+<h2 data-number="17.8" class="anchored" data-anchor-id="計算例"><span class="header-section-number">17.8</span> 計算例</h2>
+<p>ある製品の重さを10個調べたところ、標本平均 <span class="math inline">\(\bar{x} = 100.03\)</span> g、不偏分散から求めた標準偏差 <span class="math inline">\(s = 1.49\)</span> g でした。母平均 <span class="math inline">\(\mu\)</span> の95%信頼区間を求めます。</p>
+<ol type="1">
+<li>自由度は <span class="math inline">\(n - 1 = 10 - 1 = 9\)</span>、<span class="math inline">\(t_{0.025}(9) = 2.262\)</span></li>
+<li>標準誤差は <span class="math inline">\(\dfrac{s}{\sqrt{n}} = \dfrac{1.49}{\sqrt{10}} = 0.471\)</span></li>
+<li>幅は <span class="math inline">\(2.262 \times 0.471 = 1.07\)</span></li>
+</ol>
+<p><span class="math display">\[
+100.03 - 1.07 \leqq {\color{#E36C09}{\mu}} \leqq 100.03 + 1.07 \quad\Longrightarrow\quad 98.96 \leqq {\color{#E36C09}{\mu}} \leqq 101.10
+\]</span></p>
+<p>つまり、この製品の重さの母平均は、95%の信頼で 98.96 g から 101.10 g の間にあると推定できます。</p>
+</section>
+<section id="エクセルの関数" class="level2" data-number="17.9">
+<h2 data-number="17.9" class="anchored" data-anchor-id="エクセルの関数"><span class="header-section-number">17.9</span> エクセルの関数</h2>
 <p>エクセルを使い信頼区間を求める方法</p>
 <ul>
 <li>母分散が分かっている時：CONFIDENCE.NORM(α, 標準偏差, 標本数)
@@ -783,10 +827,12 @@ P\left\{-1.96 \leqq \frac{\bar{X} - \mu}{\frac{\sigma}{\sqrt{n}}} \leqq 1.96\rig
 <ul>
 <li><span class="math inline">\(t\)</span> 分布を使って計算されます。</li>
 </ul></li>
-<li>両関数とも <span class="orange">確率値 <span class="math inline">\(\times \dfrac{\text{標準偏差}}{\sqrt{n}}\)</span></span> の部分が計算されます。
+<li>両関数とも <span class="orange">確率値 <span class="math inline">\(\times \dfrac{\text{標準偏差}}{\sqrt{n}}\)</span></span> の部分（区間の幅の半分）が計算されます。
 <ul>
 <li>信頼区間は、「標本平均 <span class="math inline">\(-\)</span> 関数の値」から「標本平均 <span class="math inline">\(+\)</span> 関数の値」までの範囲になります。</li>
+<li>上の計算例では、<code>=CONFIDENCE.T(0.05, 1.49, 10)</code> が約 1.07 になります。</li>
 </ul></li>
+<li><span class="math inline">\(t\)</span> 分布の値そのものは <code>T.INV.2T(α, 自由度)</code> で求められます（例：<code>=T.INV.2T(0.05, 9)</code> → 2.262）。</li>
 <li>両関数の書式には次の引数があります。
 <ul>
 <li>α：信頼度を計算するために使用する有意水準を指定します。<br>
@@ -800,11 +846,15 @@ P\left\{-1.96 \leqq \frac{\bar{X} - \mu}{\frac{\sigma}{\sqrt{n}}} \leqq 1.96\rig
 </ul></li>
 </ul>
 </section>
-<section id="データ分析ツール" class="level2" data-number="17.9">
-<h2 data-number="17.9" class="anchored" data-anchor-id="データ分析ツール"><span class="header-section-number">17.9</span> データ分析ツール</h2>
+<section id="データ分析ツール" class="level2" data-number="17.10">
+<h2 data-number="17.10" class="anchored" data-anchor-id="データ分析ツール"><span class="header-section-number">17.10</span> データ分析ツール</h2>
 <ul>
 <li>Excelのデータ分析ツールの「基本統計量」を使うと、標準誤差など、他の統計量も一度に出力されます。</li>
-<li>「平均の信頼度の出力」にチェックを入れると、「信頼度（95.0%）」が出力されます。これは <code>CONFIDENCE.T</code> 関数の値と同じで、信頼区間は「平均 <span class="math inline">\(\pm\)</span> 信頼度」で求められます。</li>
+<li>「平均の信頼区間の出力」にチェックを入れると、「信頼区間(95.0%)」という行が出力されます。
+<ul>
+<li>名前は「信頼区間」ですが、区間そのものではなく、平均に足し引きする幅で、<code>CONFIDENCE.T</code> 関数の値と同じです。信頼区間は「平均 <span class="math inline">\(\pm\)</span> この値」で求められます。</li>
+<li>同じ出力の「標準誤差」は <span class="math inline">\(\dfrac{s}{\sqrt{n}}\)</span> の値です（前回の標準誤差と同じ考え方です）。</li>
+</ul></li>
 <li>「分析ツール」が表示されていない場合は、以下の操作でリボンに表示させます（大学のパソコンはシャットダウンの度に初期化されるので、毎回この操作を行う必要があります）。</li>
 </ul>
 <p>　ファイル → その他 → オプション → アドイン → 下の「管理」で「Excel アドイン」を選んで「設定」→「分析ツール」にチェック → OK</p>
@@ -817,7 +867,7 @@ P\left\{-1.96 \leqq \frac{\bar{X} - \mu}{\frac{\sigma}{\sqrt{n}}} \leqq 1.96\rig
 <img src="images/B02/B02-8.png" id="fig-B02-8" class="img-fluid figure-img" style="width:100.0%">
 </div>
 <figcaption class="quarto-float-caption-bottom quarto-float-caption quarto-float-fig quarto-uncaptioned" id="fig-B02-8-caption-0ceaefa1-69ba-4598-a22c-09a6ac19f8ca">
-図&nbsp;17.8
+図&nbsp;17.9
 </figcaption>
 </figure>
 </div>

diff --git a/index.html b/index.html
@@ -372,7 +372,7 @@ window.Quarto = {
     <div>
     <div class="quarto-title-meta-heading">Published</div>
     <div class="quarto-title-meta-contents">
-      <p class="date">2026年10月11日</p>
+      <p class="date">2026年10月14日</p>
     </div>
   </div>
   
